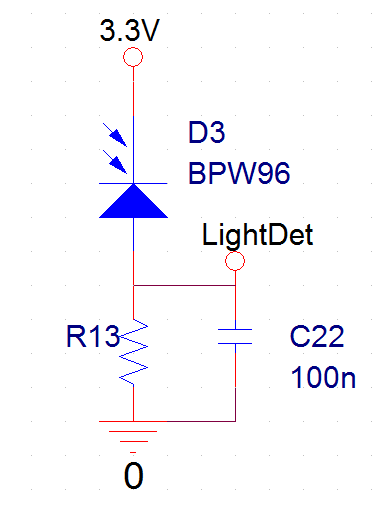
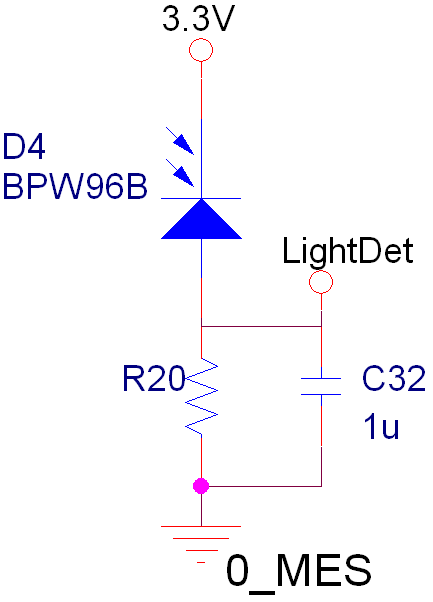
dokumentation til lysmåler

diff --git a/LaTeX/projektdokumentation/hwimplementering/lysmaeler.tex b/LaTeX/projektdokumentation/hwimplementering/lysmaeler.tex
@@ -1,51 +1,41 @@
 \section{Lysmåler} 
-Lysmåleren er implementeret ved hjælp af en fototransistor som vil afgive en strøm afhængig af hvor meget lys der indstråles. Der er valgt at benytte modellen BPW96C \cite{lib:fototransistor_BPW96B_datasheet} fra Vishay. Kurve over strøm vs. indstrålet effekt ses på Figur \ref{fig:fotokurve}.  
+Lysmåleren er implementeret ved hjælp af en fototransistor som afgiver en strøm afhængig af hvor meget lys der indstråles. Der er valgt at benytte modellen BPW96B \cite{lib:fototransistor_BPW96B_datasheet} fra Vishay. Kredsløbet er bygget op således at dynamikområdet i \texttt{LightDet}-signalet skalleres via modstanden R20, C32 er medtaget for at midle over evt. støj, værdien er valgt til 1$\mu F$. Kredsløbet er desuden koblet til et seperat stelplan der er fælles for målerkredsene, dette er gjort for at kunne afbryde forbindelse til dette plan når der ikke foretages målinger og dermed mindske det overordnede strømforbruget. 
+
+\begin{figure}[H]
+	\centering
+	\includegraphics[width=0.25\textwidth]{../fig/Lysmaeler/diagram.png}
+	\caption{Diagram over lysmåleren}
+	\label{fig:lysdiagram}
+\end{figure} 
+
+Afhængig af hvilken lysintensitet der opfanges af fototransistoren vil denne afgive en collectorstrøm i et området fra 2.5-7.$5mA$ jvf. databladet. Kurven over strøm vs. indstrålet effekt ses på Figur \ref{fig:fotokurve}. Her skal det bemærkes at kurven baserer sig på en forsyningsspænding på 5VDC, der må derfor forventes en mindre collectorstrøm end den afbilledet. Derudover baserer grafen sig på en bølgelængde på 950nm, dette er fototransistorens mest effektive område. jfv. Figur \ref{fig:lysspectrum} derfor må der yderligere forventes en lavere collectorstrøm da fototransistoren opsætter en mindre effekt end afbilledet på grafan. 
 
 \begin{figure}[H]
   \centering
-  \begin{minipage}[b]{0.3\textwidth}
-	\includegraphics[width=1\textwidth]{../fig/Lysmaeler/fototrans.jpg}
-	\caption{Fototransistor}
-	\label{fig:fototrans}
-  \end{minipage}
-  \hfill
-  \begin{minipage}[b]{0.5\textwidth}
+  \begin{minipage}[b]{0.45\textwidth}
 	\includegraphics[width=1\textwidth]{../fig/Lysmaeler/kurve.png}
 	\caption{Strøm vs. Indstråling}
 	\label{fig:fotokurve}
   \end{minipage}
-\end{figure}
-
-\clearpage
-
-\begin{figure}[H]
-  \centering
-  \begin{minipage}[b]{0.4\textwidth}
-	\includegraphics[width=0.5\textwidth]{../fig/Lysmaeler/diagram.png}
-	\caption{Diagram over lysmåleren}
-	\label{fig:lysdiagram}
-  \end{minipage}
   \hfill
-  \begin{minipage}[b]{0.4\textwidth}
+  \begin{minipage}[b]{0.45\textwidth}
 	\includegraphics[width=1\textwidth]{../fig/Lysmaeler/wavelength.png}
 	\caption{Fototransistorens sensitivitet vs. bølgelængde}
 	\label{fig:lysspectrum}
   \end{minipage}
 \end{figure}
 
-Det er valgt at fastlægge referencepunktet ved skumringstid til 2VDC jfv. mikroprocessorens videre arbejde med signalet. Derfor skal kredsløbet designet således at der ved den denne lysintensitet afgives 2VDC. Diagram over kredsløbet ses på \ref{fig:lysdiagram}. og her ses det at modstanden R13, skal vælges således at der fremkommer de ønskede 2VDC ved skumringstid. Da lysintensiteten er lidt svært at fastlægge præcis måtte det gøres empirisk. Dog vides det at fototransistoren ikke opfanger alle frekvenser i det synlige lys lige effektivt, en graf over dette forhold ses på Figur \ref{fig:lysspectrum}. Sammenholdes denne med sollysets spektrum på Figur \ref{fig:solspectrum} ses at der må forventes en ringere effektivitet da fototransistorens relative følsomhed jfv. Figur \ref{fig:lysspectrum} er helt nede på en faktor 0.2 hvis der antages at der opfanges lys fra ca. 450nm-1080nm (fototransistorens spektrum jfv. databladet) hvis der fortages en integration over disse forhold, nås der frem til at ca. $1/4$ af energien kan omsættes i fototransistoren.
+At fototransistoren opfanger en lavere effekt end den angivet ved 900nm, skyldes sollyset spektrale komposition. Her ligger det visuelle lys i området 400-700nm. jfv. Figur \ref{fig:lysspectrum}. Sammenholdes denne med sollysets spektrum på Figur \ref{fig:solspectrum} ses at der må forventes en ringere effektivitet da fototransistorens relative følsomhed jfv. Figur \ref{fig:lysspectrum} er helt nede på en faktor 0.2 hvis der antages at der opfanges lys fra ca. 450nm-1080nm (fototransistorens spektrum jfv. databladet) hvis der fortages en integration over disse forhold, nås der frem til at ca. $1/4$ af energien kan omsættes i fototransistoren.
 
 \begin{figure}[H]
 	\centering
-	\includegraphics[width=0.6\textwidth]{../fig/Lysmaeler/solspektrum.jpg}
+	\includegraphics[width=0.6\textwidth]{../fig/Lysmaeler/solspektrum.png}
 	\caption{Spektrum over energien i sollys. Kilde: \cite{lib:wiki_sunlight}}
 	\label{fig:solspectrum}
-\end{figure} 
+\end{figure}
 
-For at finde en passende værdi for R13, er der foretaget en række test for at fastlægge fototransistorens udgangsstrøm ved skumring/daggry. På baggrund af disse kan R13 beregnes på følgende måde. 
-
+Det er valgt at fastlægge en referencespænding ved skumringstid til 1VDC, dette er halvdelen af mikroprocessorens egen reference på indgangen. Hermed opnås størst mulig dynamik i målingen. Dette betyder at en spænding på $<$1VDC detektere nat, og en spænding $>$1VDC detektere dag. Derfor skal kredsløbet designes således at der ved den denne lysintensitet afgives 1VDC over modstanden R20. For at finde en passende værdi for R20, er der foretaget en række empiriske tests for at fastlægge fototransistorens udgangsstrøm ved skumring/daggry. På baggrund af disse kan R20 beregnes på følgende måde. 
 
 \begin{equation}
 	R13=\dfrac{V_{skumring}} {I_{skumring}}= \dfrac{2VDC} {0.3mA} = 6.6 k\Omega
 \end{equation}
-

diff --git a/LaTeX/projektdokumentation/litteraturliste/litteraturliste.tex b/LaTeX/projektdokumentation/litteraturliste/litteraturliste.tex
@@ -8,21 +8,21 @@
 \bibitem {lib:SoilModeling} Experimental Electrical Modeling of Soil for In Situ Soil Moisture Measurement.pdf \\
 Type:			\textit{bog}	
 Forfattere: \textit{Kamlesh Kumar Singh, Neeraj K. Chasta Department of Electrical Engineering, IIT-Bombay Mumbai, India-400076} 
-Udgivelsessted: \textit{}				\\
-Udgivelsesår:	\textit{31-01-2017}		\\
+Udgivelsessted: \textit{}		\\
+Udgivelsesår:	\textit{2017}	\\
 
 \bibitem {lib:MultiSensorSystem} A Wireless Multi-Sensor System For Soil Moisture Measurement.pdf \\
 Forfattere: \textit{P Aravind, Mangesh Gurav, Aakash Mehta, Rohan Shelar, Jobish John, Vinay S Palaparthy:
 Department of Electrical Engineering,Center for Research in Nanotechnology and Science,Indian Institute of Technology (IIT)-Bombay Mumbai, India} 
-Udgivelsessted: \textit{}				\\
-Udgivelsesår:	\textit{31-01-2017}		\\
+Udgivelsessted: \textit{}		\\
+Udgivelsesår:	\textit{2017}	\\
 
 
 \bibitem {lib:DPHP} An Automated, Self Sustained Soil Moisture Measurement System using Low Power Dual Probe Heat Pulse (DPHP) Sensor.pdf \\
 Forfattere: \textit{Kamlesh K. Singh, Maryam Shojaei Baghini: Department of Electrical Engineering, Indian Institute of
 Technology, Bombay, India.} 
 Udgivelsessted: \textit{}		\\
-Udgivelsesår:	\textit{31-01-2017}		\\
+Udgivelsesår:	\textit{2017}	\\
 
 
 \bibitem {lib:optical} An Optical Reflectance Technique for Soil Moisture Measurement-Part I: Theory, Description,
@@ -30,9 +30,8 @@ and Application.pdf \\
 Forfattere: \textit{Belisle, W. R., A. ISharma, and T. L. Coleman
 (Center for Hydrology, Soil ClimatoWogy, and Remote Sensing,Alabama AM University
 P.0. Box 1208, Plant and Soil Science Department, Normal, Alabama 35762} 
-Udgivelsessted: \textit{}				\\
-Udgivelsesår:	\textit{31-01-2017}		\\
-ISBN: 			\textit{}				\\
+Udgivelsessted: \textit{}		\\
+Udgivelsesår:	\textit{2017}	\\
 
 
 \bibitem {lib:balanis} Anatenna Theory Analysis And Design 3.Edition					\\
@@ -48,15 +47,13 @@ Type:			\textit{Datablad}																			 \\
 Forfattere: 	\textit{Johanson Technology} 																 \\
 Udgivelsessted: \textit{Published 4001 Calle Tecate. Camarillo, CA 93012, TEL 805.389.1166 FAX 805.389.1821} \\
 Udgivelsesår:	\textit{2016}																				 \\
-ISBN: 			\textit{}	
 
 
 \bibitem {lib:ant_W3127_datasheet} ISM 433MHz Helical Antenna	\\
 Type:			\textit{Datablad}								\\
 Forfattere: 	\textit{Pulse Electronics} 						\\
 Udgivelsessted: \textit{Published by Takatie 6, 90440 Kempele, Finland, Tel: +358 207 935 500, Fax: +358 207 935 501}	\\
-Udgivelsesår:	\textit{2014}	\\
-ISBN: 			\textit{}	
+Udgivelsesår:	\textit{2014}	\\	
 
 
 \bibitem {lib:psu_MCP1640_datasheet} MCP1640		\\
@@ -64,28 +61,34 @@ Type:			\textit{Datablad}					\\
 Forfattere: 	\textit{Microchip Technology Inc}	\\
 Udgivelsessted: \textit{Published by Microship 2355 West Chandler Blvd. Chandler, AZ 85224-6199, Tel: 480-792-7200 Fax: 480-792-7277}	\\
 Udgivelsesår:	\textit{2015}	\\
-ISBN: 			\textit{}	
 
 
 \bibitem {lib:fototransistor_BPW96B_datasheet} BPW96B		\\
 Type:			\textit{Datablad}					\\
 Forfattere: 	\textit{Vishay Semiconductors}	\\
 Udgivelsessted: \textit{Published by Vishay Semiconductors}	\\
-Udgivelsesår:	\textit{13-Jun-16}	\\
-ISBN: 			\textit{}	
+Udgivelsesår:	\textit{2016}	\\
 
 
+\bibitem {lib:Burgess_sunlight} Burgess Sunlight	\\
+Type: 			\textit{Paper}	\\
+Forfattere: 	\textit{Paul Burgess}	\\
+Udgivelsessted: \textit{Published by School of Applied Sciences, Cranfield University, Cranfield, Bedfordshire, MK43 0AL}	\\
+Udgivelsesår:	\textit{2016}	\\
+Link: \textit{http://www.ccfg.org.uk/conferences/downloads/P\_Burgess.pdf}	\\
 
-\bibitem {lib:wiki_sunlight} Sunlight 					\\
-Type: 			\textit{artikel}						\\
-Forfattere: 	\textit{wikipedia} 						\\
-Udgivelsesår:	\textit{31-01-2017}						\\
-Link: \textit{https://en.wikipedia.org/wiki/Sunlight}	\\
+
+\bibitem {lib:wiki_sunlight} Wiki Sunlight	\\
+Type: 			\textit{artikel}	\\
+Forfattere: 	\textit{wiki}	\\
+Udgivelsessted: \textit{}	\\
+Udgivelsesår:	\textit{2016}	\\
+Link: \textit{https://commons.wikimedia.org/wiki/File:Solar\_Spectrum.png}	\\
 
 
 \bibitem {lib:wiki_waterContent} Water content in soil 				\\
 Type: 			\textit{artikel}									\\
-Forfattere: \textit{wikipedia} 23-02-2017							\\
+Forfattere: \textit{wikipedia} 23/02/2017							\\
 Link: \textit{https://en.wikipedia.org/wiki/Water\_content}			\\
 
 
